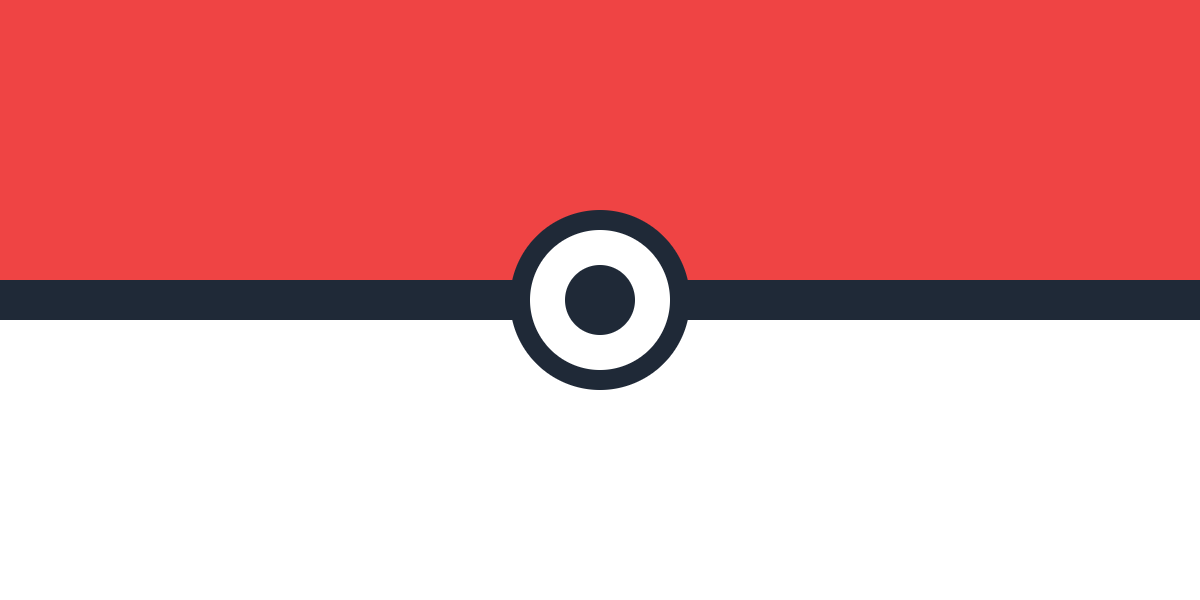
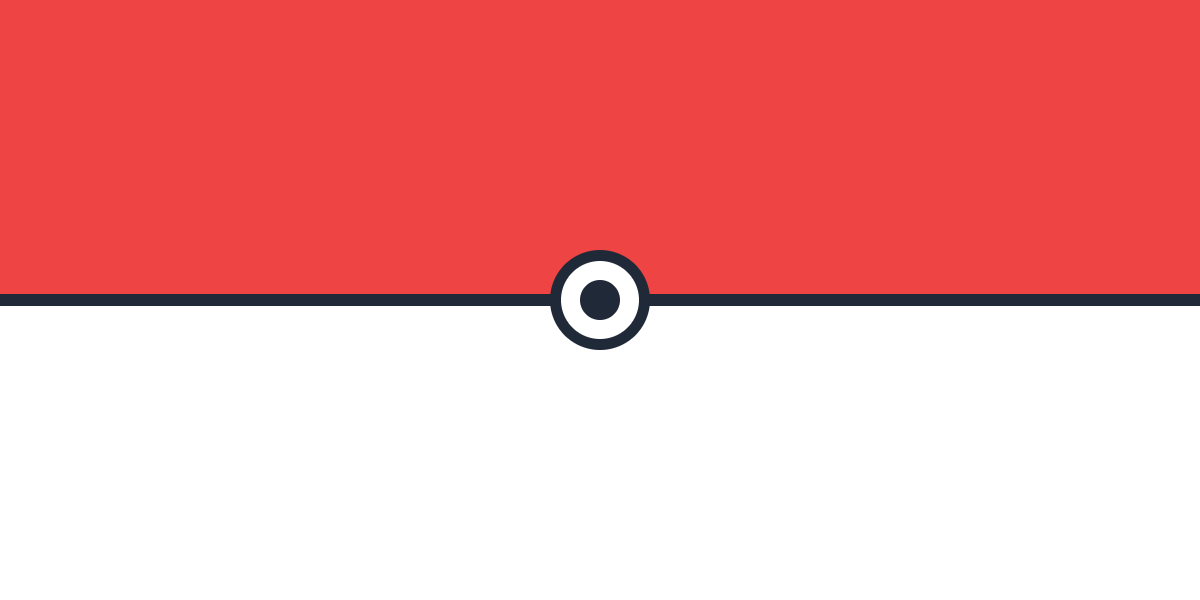
Update HomePublic UI and improve slogan styling

Changed region(s): [[0.0, 0.33, 1.0, 0.66]]

diff --git a/my-pokedex-front/src/components/HomePublic.jsx b/my-pokedex-front/src/components/HomePublic.jsx
@@ -16,7 +16,7 @@ const HomePublic = () => {
     >
       <Container className="text-center ">
         <Row
-          className="justify-content-center pt-5 pb-5 mb-5"
+          className="justify-content-center pt-5 pb-5 mb-5 "
           style={{
             backgroundImage: `url(${pokeball})`,
             backgroundPosition: "center",
@@ -26,10 +26,13 @@ const HomePublic = () => {
           }}
         >
           <Col md={10}>
-            <h1 className="display-4 fw-bold">
+            <h1 className="display-4 fw-bold mb-5 mt-5 pb-3">
               Benvenuto nella Pokedex di Kanto
             </h1>
-            <p className="lead mt-3 mb-4">
+            <p
+              className="lead mt-5 mb-4 fw-bold pt-5 "
+              style={{ color: "rgba(240, 35, 35, 1)" }}
+            >
               Cattura, organizza e gestisci i tuoi 151 Pokémon di prima
               generazione!
             </p>
@@ -43,7 +46,7 @@ const HomePublic = () => {
               Accedi
             </Button>
             <Button
-              variant="light"
+              variant="warning"
               size="lg"
               className="fw-bold"
               onClick={() => navigate("/register")}
